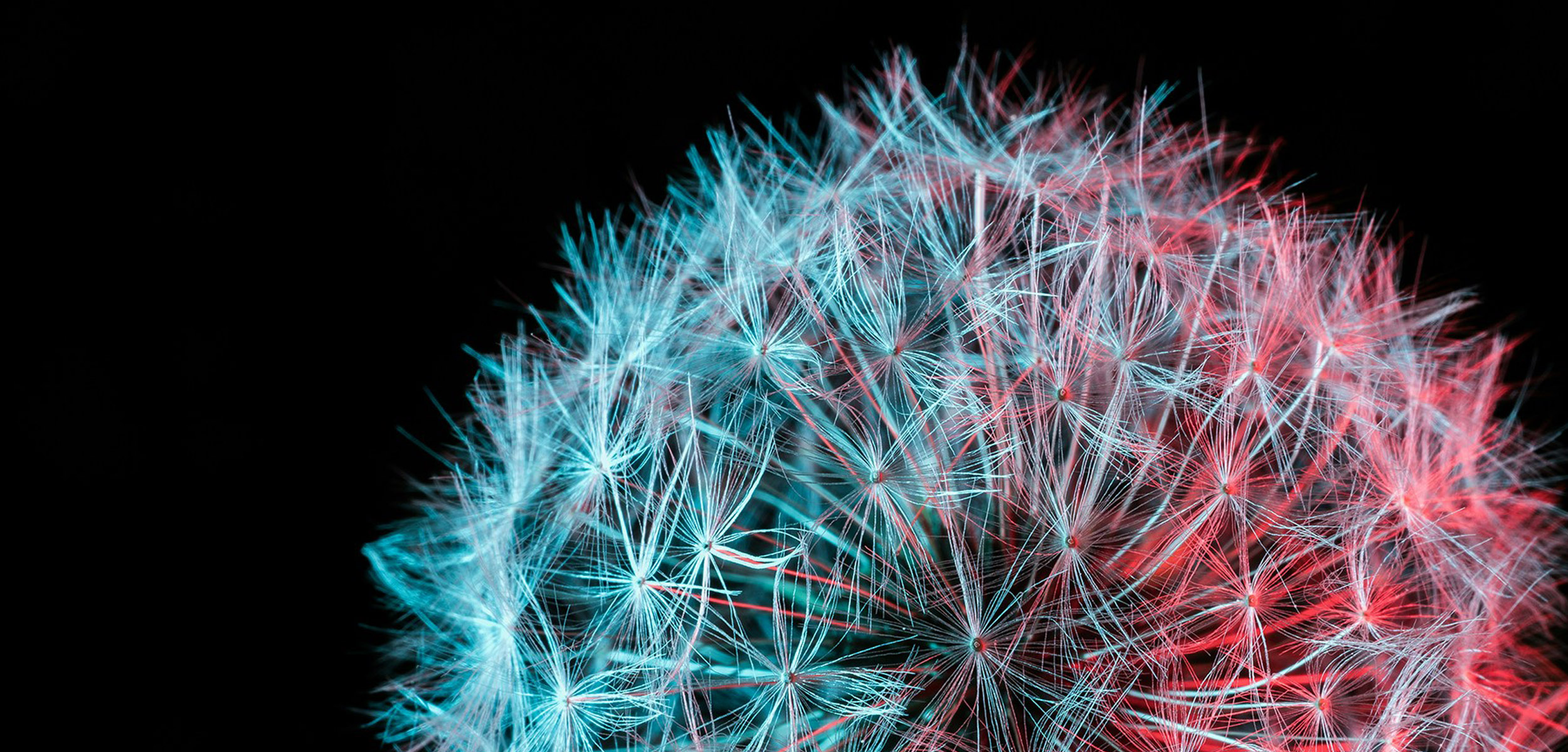
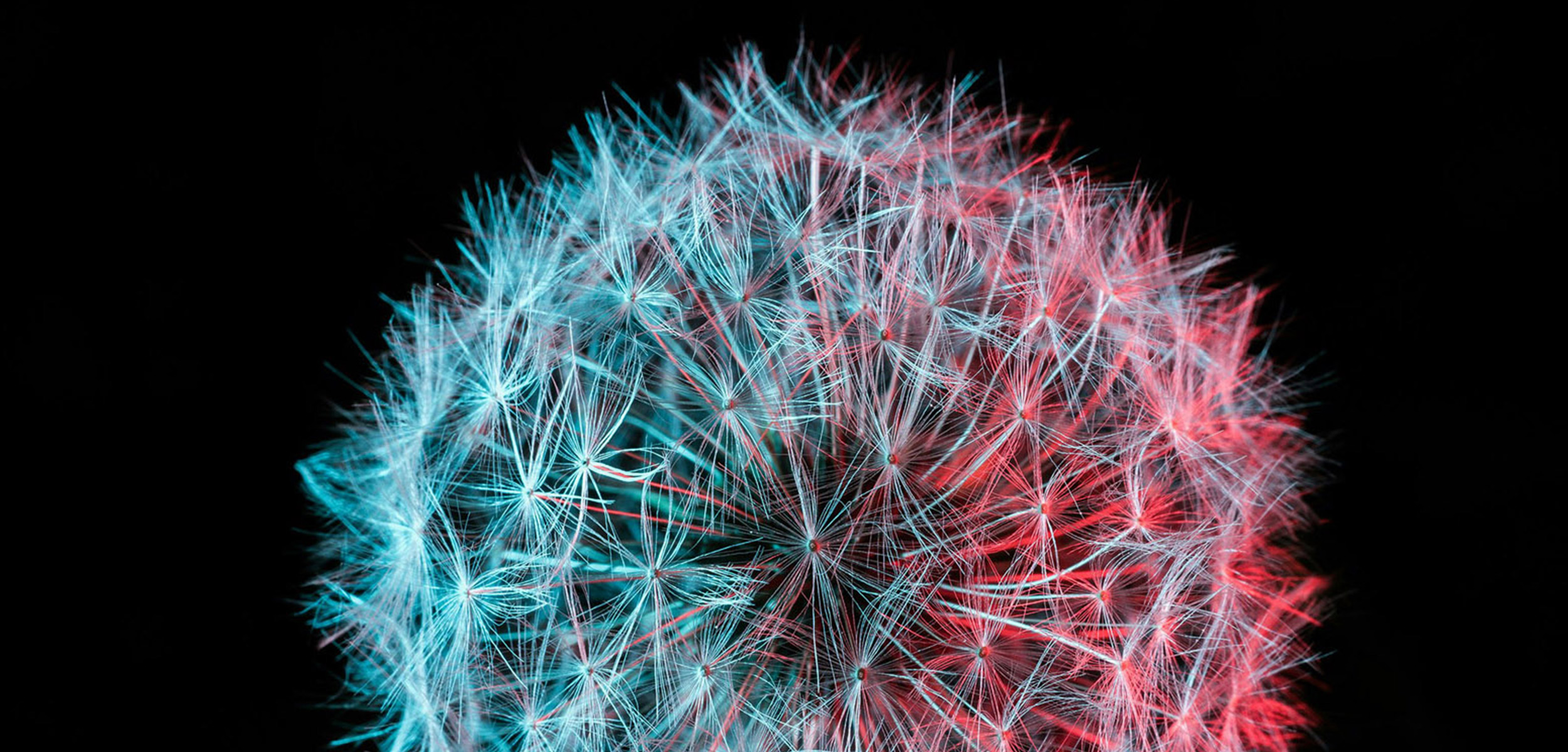
Tweak images

diff --git a/content/performances/2026/40th-anniversary/index.md b/content/performances/2026/40th-anniversary/index.md
@@ -3,7 +3,7 @@ title = "XL"
 subTitle = "40 years of The Tudor Consort"
 summary = ""
 performanceDate = 2026-05-02
-
+heroImageOptions = "fill 1000x420 Center"
 +++
 
 Our very first performance took place at Wellington Cathedral of St Paul on 23 April 1986. Our fortieth birthday celebration concert features Tudor music from that performance, alongside Thomas Tallis’ celebrated forty-part motet _Spem in allium_, 
